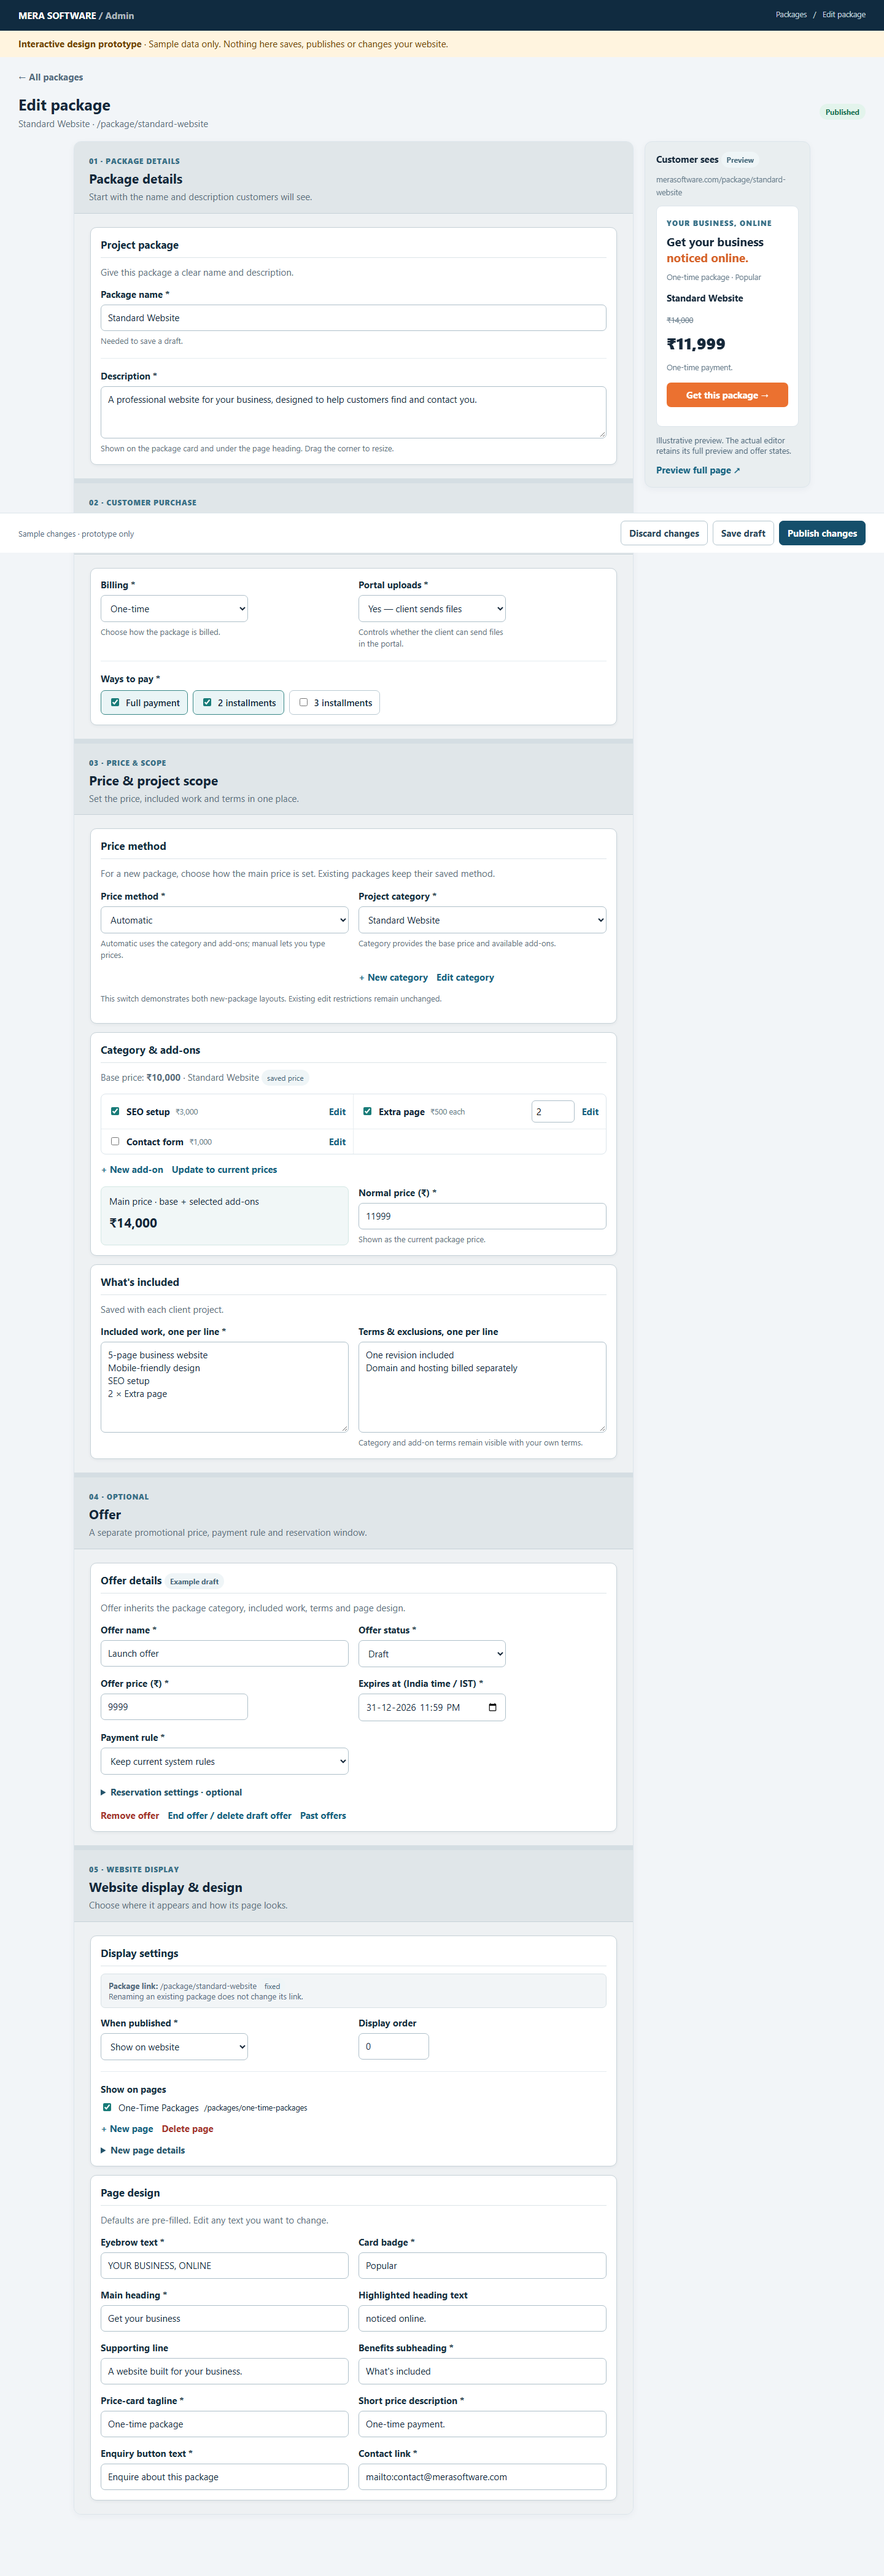
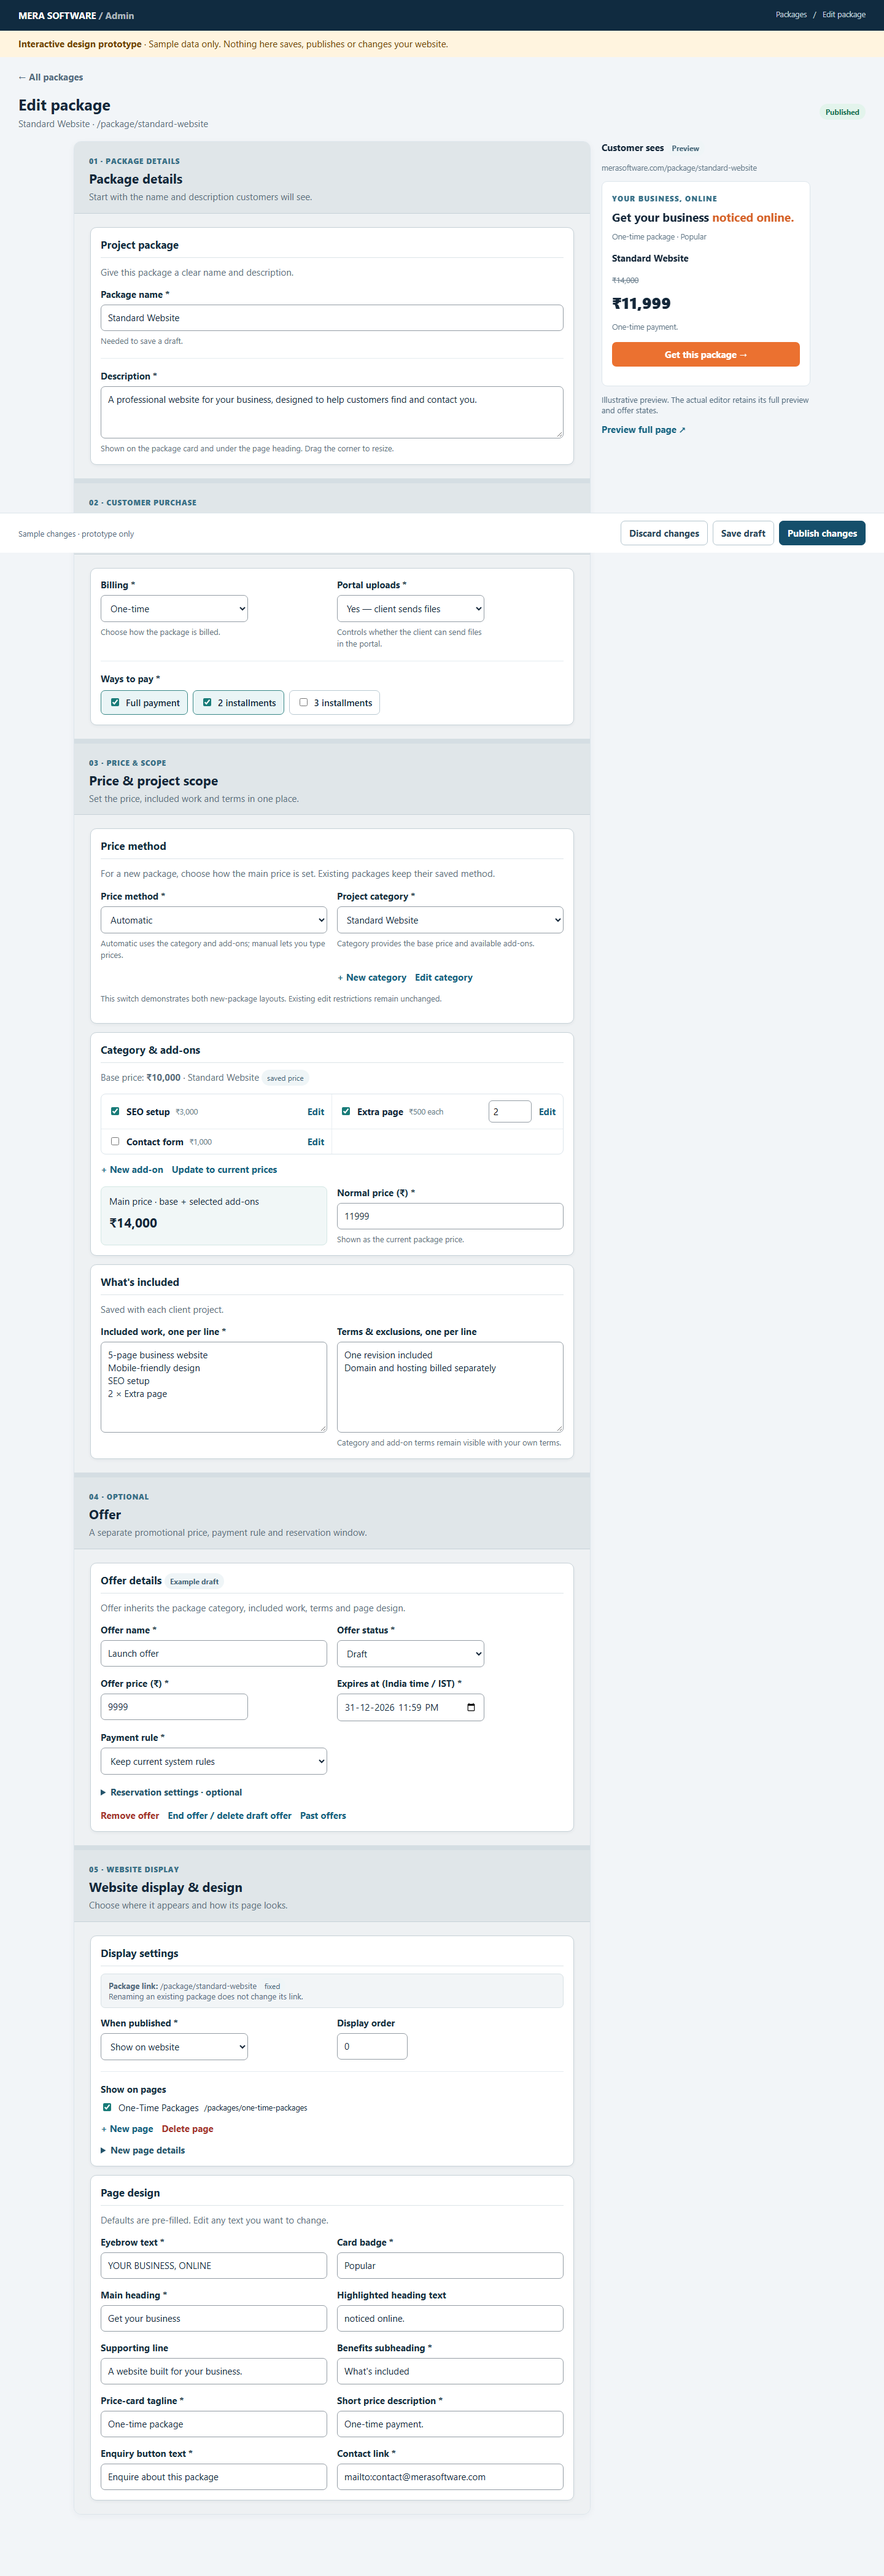
package form 3

diff --git a/src/app/admin/packages/packages-manager.module.css b/src/app/admin/packages/packages-manager.module.css
@@ -73,15 +73,18 @@
 
 /* Compact, continuous editor: preserve the existing form and handlers while
    making the related choices and pricing easier to scan. */
-.layout{grid-template-columns:minmax(0,1fr) 340px;max-width:1200px;gap:18px}
-.form{overflow:visible;border-radius:12px}
-.sec{background:var(--pn-card,var(--paper));padding:22px 24px;border-top:8px solid var(--pn-raised,var(--surface));gap:8px}
+.layout{grid-template-columns:minmax(0,1fr) 340px;gap:20px}
+.form{--package-form-surface:#f5f7f9;overflow:visible;border-radius:12px}
+.layout .form{max-width:none}
+:global(.admin-shell[data-theme="dark"]) .form{--package-form-surface:var(--pn-card)}
+.sec{background:var(--package-form-surface);padding:22px 24px;border-top:8px solid var(--pn-raised,var(--surface));gap:8px}
 .sechead{background:var(--pn-raised,var(--surface));margin:-22px -24px 8px;padding:16px 24px;border-bottom:1px solid var(--pn-line,var(--line));align-items:center}
 .sechead h2{font-size:19px;line-height:1.3}
 .sec :global(.admin-field)>span,.choices>span{font-size:15px;font-weight:700}
 .sec :global(.admin-field) input,.sec :global(.admin-field) select,.sec :global(.admin-field) textarea{font-size:16px}
 .sec :global(.admin-field) input,.sec :global(.admin-field) select,.sec :global(.admin-field) textarea,.sec .addOnQty,.sec .percent{border-color:color-mix(in srgb,var(--pn-text,#15283a) 46%,var(--pn-field,#fff))}
 .sec :global(.admin-field) input:focus,.sec :global(.admin-field) select:focus,.sec :global(.admin-field) textarea:focus,.sec .addOnQty:focus,.sec .percent:focus{border-color:var(--pn-accent,#166381)}
+.sec :global(.admin-field) input:disabled,.sec :global(.admin-field) select:disabled,.sec :global(.admin-field) textarea:disabled{background:color-mix(in srgb,var(--pn-field) 80%,var(--pn-text) 20%);cursor:not-allowed}
 .sec :global(.admin-field) textarea{resize:both;max-width:100%}
 .twoFields,.pricingHeader{display:grid;grid-template-columns:repeat(2,minmax(0,1fr));gap:12px 18px;align-items:start}
 .pricingHeader{border-top:1px solid var(--pn-line,var(--line));padding-top:16px}

diff --git a/docs/package-editor-prototype.html b/docs/package-editor-prototype.html
@@ -67,4 +67,12 @@ methodField.before(methodGrid);methodGrid.append(methodField,categoryField,categ
 function showCategoryWithMethod(){const isManual=priceMethod.value==='manual';categoryField.hidden=isManual;categoryLinks.hidden=isManual}
 priceMethod.addEventListener('change',showCategoryWithMethod);showCategoryWithMethod();
 </script>
+<style>
+/* Match the current package editor's 340px preview and stronger field borders. */
+.layout{grid-template-columns:minmax(0,1fr) 340px}
+.preview{padding:0;background:transparent;border:0;box-shadow:none}
+.field input,.field select,.field textarea,.addon input[type=number],.choicebox input[type=number]{border-color:color-mix(in srgb,#15283a 46%,#fff)}
+.field input:focus,.field select:focus,.field textarea:focus,.addon input[type=number]:focus,.choicebox input[type=number]:focus{border-color:#166381}
+@media(max-width:1100px){.layout{grid-template-columns:minmax(0,1fr)}}
+</style>
 </body></html>
